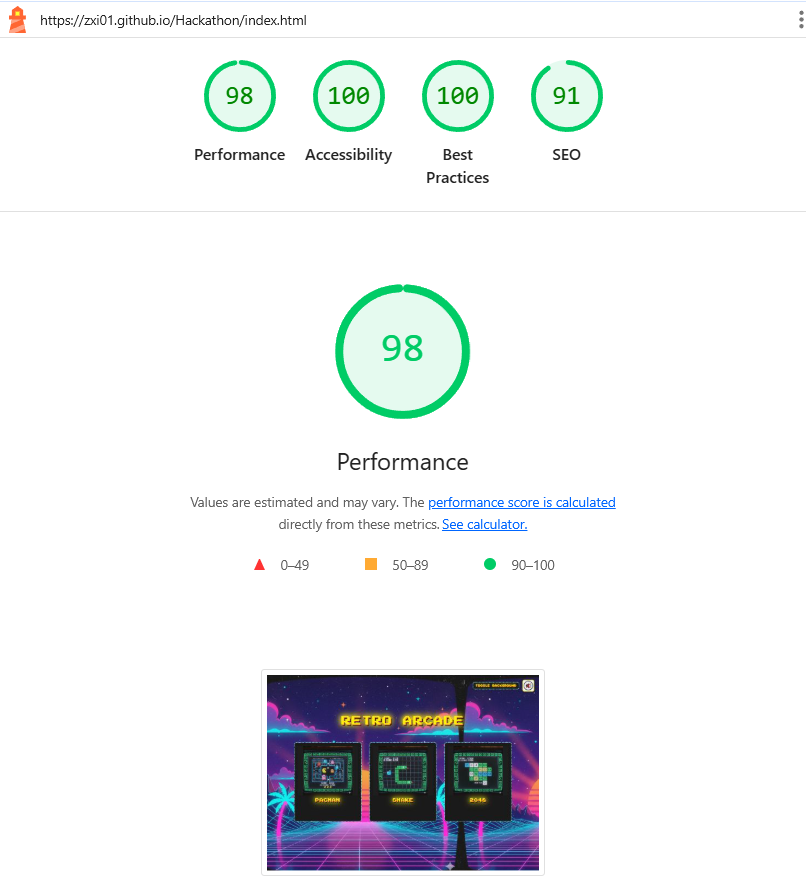
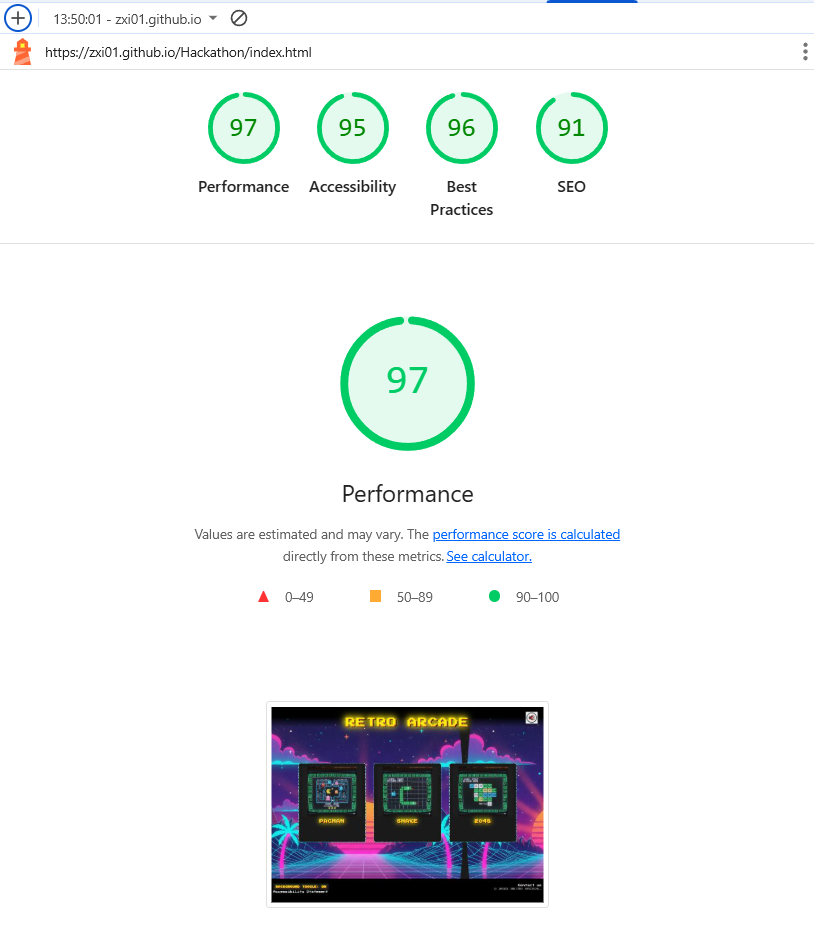
Add updated lighthouse images and when dpad shows on smaller screens

diff --git a/assets/css/style.css b/assets/css/style.css
@@ -698,7 +698,7 @@ footer a:hover {
 }
 
 /* Show D-pad only on tablet/mobile */
-@media screen and (max-width: 1024px) {
+@media screen and (max-width: 1023.9px) {
     .dpad-container {
         display: -ms-grid;
         display: grid;
@@ -756,7 +756,7 @@ footer a:hover {
         display: block;
     }
 }
-@media screen and (max-width: 1024px) {
+@media screen and (max-width: 1023.9px) {
     #dpad-up {
         -ms-grid-row: 1;
         grid-row: 1;
